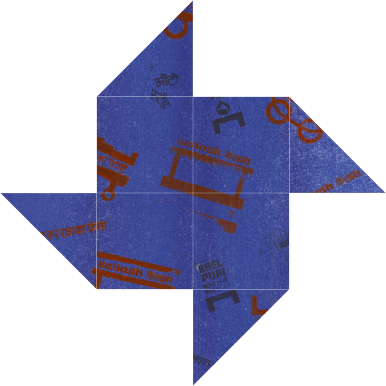
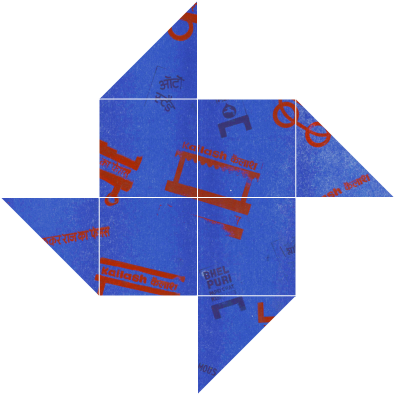
new images

diff --git a/src/utils.ts b/src/utils.ts
@@ -3,6 +3,8 @@ import * as PW2 from '@/assets/images/PW2.png'
 import * as PW3 from '@/assets/images/PW3.png'
 import * as PW4 from '@/assets/images/PW4.png'
 import * as PC1 from '@/assets/images/PC1.png'
+import * as PC2 from '@/assets/images/PC2.png'
+import * as PC3 from '@/assets/images/PC3.png'
 
 import {
   PinwheelData,
@@ -18,6 +20,7 @@ const batch = 6
 const batchSize = PinwheelData.length / batch
 
 const PWImages = [PW1, PW2, PW3, PW4]
+const PCImages = [PC1, PC2, PC3, PC1]
 
 export const pinwheelData = (rect: DOMRect): WheelData[] => {
   if (PinwheelData.length === 0) return []
@@ -38,7 +41,8 @@ export const pinwheelData = (rect: DOMRect): WheelData[] => {
   const wheels: WheelData[] = PinwheelData.map((p, index) => {
     const randomIndex = Math.trunc(Math.random() * 4)
 
-    const wheel = p.type === WheelType.TypeA ? PWImages[randomIndex] : PC1
+    const wheel =
+      p.type === WheelType.TypeA ? PWImages[randomIndex] : PCImages[randomIndex]
     const duration = durations[randomIndex]
     const pwheight = screen.width > 768 ? 200 : 100
     const positionY = intervalSize * currentBatch - pwheight

diff --git a/src/components/PaperFlower/index.tsx b/src/components/PaperFlower/index.tsx
@@ -47,7 +47,7 @@ const PaperFlower = ({
         <motion.div
           animate={{ rotate: 360 }}
           transition={{ duration: duration, repeat: Infinity, ease: 'linear' }}
-          className="absolute z-10 w-16 h-16  left-[-30px] top-[-30px]"
+          className="absolute z-10 w-16 h-16 md:w-20 md:h-20 left-[-30px] top-[-30px]"
           onHoverStart={() => {
             if (!isChosen) updateState(FlowerStates.Hover)
           }}

diff --git a/src/components/PlayArea.tsx b/src/components/PlayArea.tsx
@@ -62,7 +62,7 @@ export default function PlayArea() {
             {poster && (
               <>
                 <div
-                  className="bg-white fixed left-0 right-0 top-0 bottom-0 z-20 bg-transparent"
+                  className="fixed left-0 right-0 top-0 bottom-0 z-20 bg-transparent"
                   onClick={clearSelection}
                 />
                 <div
